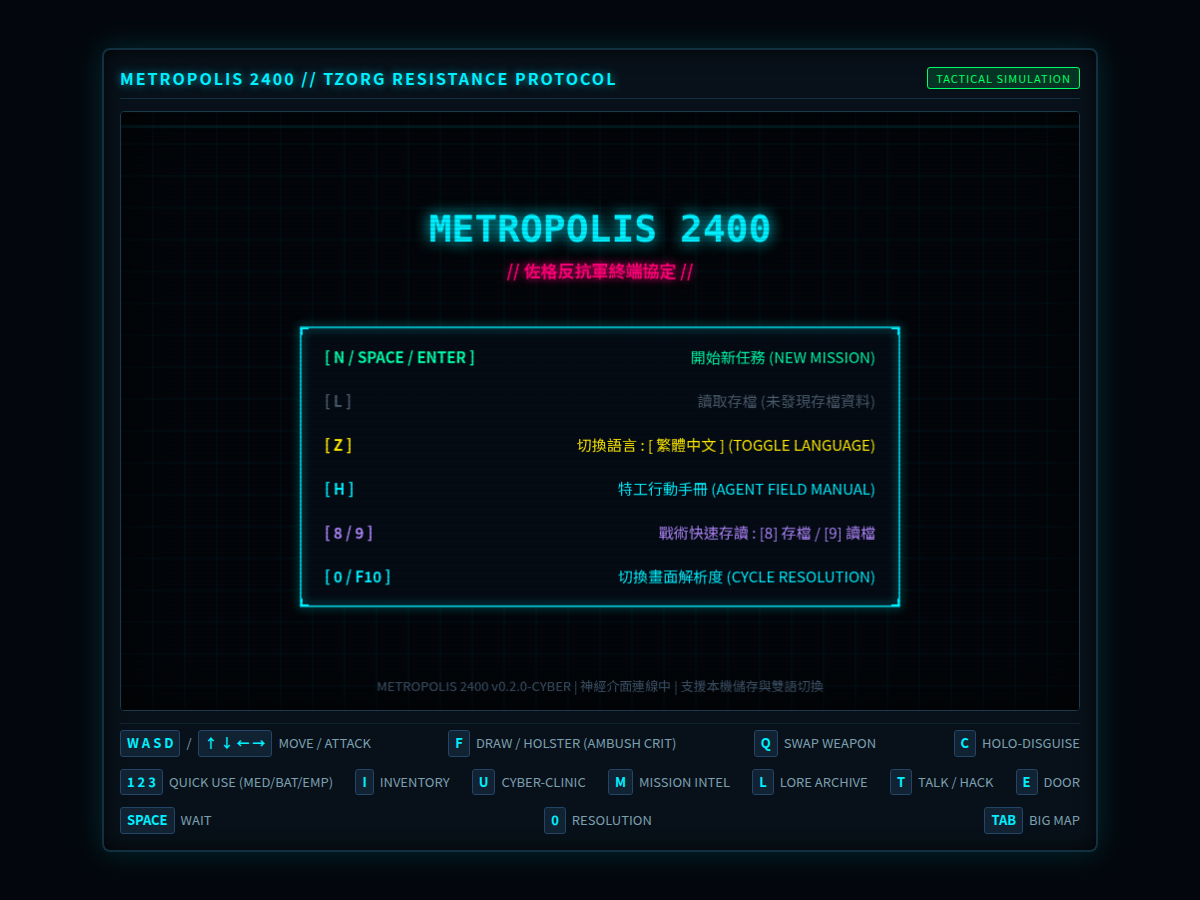
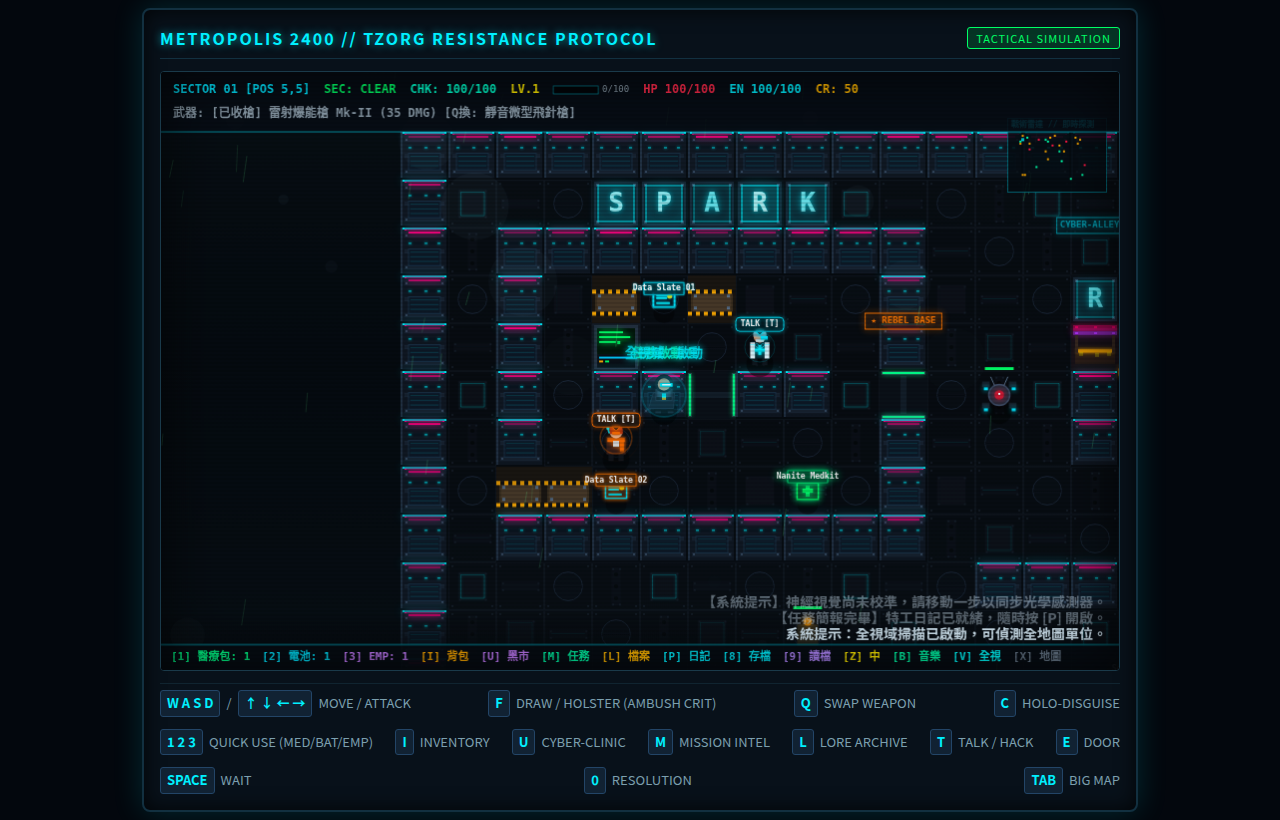
docs: update README with 5-phase main story, AI mental map, and refresh game screenshots

Changed region(s): [[0.0925, 0.0305, 0.925, 1.0]]

diff --git a/src/main.ts b/src/main.ts
@@ -104,6 +104,11 @@ export function initGame(): GameEngineInstance {
     engine.handleKeyDown('Enter');
   }
 
+  const dismissParam = urlParams.get('dismiss');
+  if (dismissParam === '1' || dismissParam === 'true') {
+    engine.handleKeyDown('Escape');
+  }
+
   if (sectorParam) {
     engine.handleKeyDown('Enter');
     engine.switchSector(sectorParam);

diff --git a/README.md b/README.md
@@ -192,6 +192,48 @@ Your objective:
 - **二階段過載 (Phase 2 Overload)**: Boss 戰引入動態過載階段，當 Boss 血量低於特定閾值時，會觸發狂暴狀態並改變攻擊模式，提升戰術深度。
 - **正規力場解鎖機制**: 修復了 Checkpoint 01 力場解鎖邏輯，確保玩家必須透過終端機 `CHECKPOINT_FF` 執行 `OVERRIDE` 或 `HACK` 指令，並完成必要的劇情前置條件後，力場才會正式消散，避免跳過關鍵戰術環節。
 
+### 17. 🗺 主線戰役五大階段任務鏈 (5-Phase Main Storyline Expansion)
+Metropolis 2400 現已具備貫穿地下舊城至核心要塞的完整 5 階段主線戰役任務鏈：
+- **Phase 1 (WO-MS-01) 檢查哨中繼站附樓 (Checkpoint Relay Annex)**：
+  - 突破 Sector 1 檢查哨前置防線，進入中繼站附樓 (`CHECKPOINT_RELAY_ANNEX`)。
+  - 入侵 `RELAY_SUB_01` 輔助終端機，獲取解除代碼並解鎖核心中繼記錄。若密碼錯誤將觸發動態警報擴散！
+- **Phase 2 (WO-MS-02) 舊城地下廢棄水道與走私網絡 (Sub-Sector Zero Sewers)**：
+  - 穿過隱蔽通風柵板進入地下水道 (`sub-sector-0`)，面臨有毒廢水池與暗巷巡邏無人機。
+  - 尋回反抗軍失落的走私貨運清單，並獲得**偽造簽到憑證 (`FORGED_CHECKIN_CREDENTIAL`)**，將神經項圈時效延長至 **125 步**！
+  - 探索東北密室 (32, 5) 取得傳奇密寶【佐格主宰萬用通行證】，徹底永久解除項圈監控 (`CHK: UNLOCKED [∞]`)。
+
+![Sub-Sector Zero Sewers Preview](sewers-preview.png)
+
+- **Phase 3 (WO-MS-03) 維修授權與跨區滲透 (Sector 2 Maintenance Clearance)**：
+  - 取得維修授權鑰匙卡 (`SECTOR2_MAINT_KEY`)，解鎖前往 Sector 2 巨型重工業區的維修通道。
+  - 協助 Commander Kira 與 Netrunner Ghost 建立跨區安全加密通信頻道。
+- **Phase 4 (WO-MS-04) 自動化軍工廠同步器破壞 (Factory Synchronizer Sabotage)**：
+  - 潛入 Sector 2 的自動化戰鬥機器人組裝工廠，黑入主同步控制終端 (`TERMINAL_SYNCHRONIZER`)。
+  - 破壞核心同步器模組 (`FACTORY_SYNCHRONIZER`)，癱瘓自動組裝流水線，永久切斷要塞 (Citadel) 的無人機空投蜂擁增援！
+- **Phase 5 (WO-MS-05) 佐格要塞逆轉金鑰與終局解放 (Citadel Reversal Keys & Multiverse Endings)**：
+  - 收集三大分區逆轉金鑰 (`CITADEL_REVERSAL_KEY` - Relay, Maintenance, Synchronizer)。
+  - 要塞核心終端機提供專屬 `KEYS` 診斷命令，動態引導缺失金鑰的分區與終端機座標。
+  - 完整集齊逆轉金鑰後，迎戰 Overmind Subroutine 主腦，自由決定大都會的命運：
+    - `OVERLOAD`：超載核心能源網，玉石俱焚摧毀要塞。
+    - `SUBVERSION`：篡改主腦神經網絡，將佐格機械軍團轉化為反抗軍防衛隊。
+    - `EVACUATION`：解除全體五百萬市民的神經項圈，啟動地下方舟疏散。
+    - `AWAKEN`：合成人與人類意識交融，迎向全新的後奇異點黎明。
+
+### 18. 🧠 LLM 智慧體心智地圖與即時感知系統 (Autonomous AI Agent Perception & Mental Map)
+為支援自主編程與 LLM 遊戲智慧體（如 Qwen 27B / Claude / GPT），Metropolis 2400 深度整合了專為 Agent 打造的高效感知與決策層：
+- **特工心智地圖 API (`getMentalMap`)**：
+  - **ASCII 戰術雷達投影**：將目前視野與記憶地圖渲染為輕量級 ASCII 字符矩陣（包含特工 `@`、障礙 `#`、平地 `.`、門 `+`、NPC `N`、敵機 `R`、終端 `T` 與未知迷霧 ` `）。
+  - **前沿探索點推薦 (`?`)**：演算法自動計算已知區域邊界的探索前沿 (Frontiers)，為 Agent 提供高效探索建議。
+  - **四向 A* 戰術尋路 (`suggestedNextStep`)**：內建非對角 A* 尋路器，支援輸入目標座標立即回傳最佳下一步方向與距離，大幅降低 LLM 空間導航推理消耗。
+- **即時感知快照 API (`getAIPerceptionSnapshot`)**：
+  - 輸出完整的 JSON 語意環境狀態：特工生理狀態 (HP, EN, CR, 項圈倒數)、當前分區、視野內威脅清單與距離、相鄰可互動實體（NPC、終端機、暗門等）。
+  - **語意動作遮罩 (Action Masking)**：明確提供目前合法的戰術動作標籤 (`canAttack`, `canTalk`, `canHack`, `canDisarm`, `canWait` 等)，避免 Agent 產生非法動作試錯。
+
+### 19. 📓 特工主觀戰術日記系統 (Operative Journal System, `[P]`)
+- **特工第一人稱情報日誌**：隨時按下 `[P]` 鍵開啟戰術日記。
+- **主觀觀察記錄**：不同於客觀任務清單，日記專門記錄特工在探索中的主觀推測、暗門位置、地標方向、密碼線索與撤退備忘。
+- **瀏覽與撰寫雙模式**：支援標題快速滾動檢視與詳細內容編輯，所有條目與世界存檔同步持久化。
+
 ---
 
 ## 🎮 Controls & Keybindings (操作指南)
@@ -208,6 +250,7 @@ Your objective:
 | **`I`** | **Inventory** | Open Resistance Cyberdeck & Tactical Inventory modal |
 | **`U`** | **Cyber-Clinic** | Jack into Jax's Black Market Augmentation Clinic to buy upgrades |
 | **`M`** | **Mission Intel** | Toggle Mission Objectives & Directives log |
+| **`P`** | **Operative Journal** | Open/compose subjective field notes & tactical memory logs |
 | **`L`** | **Lore Archives** | Open Decrypted Data Slates & Story Archive reader |
 | **`T`** | **Interact / Hack** | Speak with adjacent friendly NPCs or jack into security terminals |
 | **`E`** | **Cycle Door** | Open / close adjacent blast doors and airlocks |
@@ -295,6 +338,11 @@ metropolis-2400/
 │   ├── npcDialogueManager.ts # NPC conversation progression
 │   ├── radar.ts          # Tactical radar/minimap helpers
 │   ├── worldBuilder.ts   # Sector entities, objectives and world initialization
+│   ├── agentMentalMap.ts # AI Agent ASCII radar & A* mental map planner
+│   ├── aiPerception.ts   # Structured perception snapshot & semantic action masking
+│   ├── journalSystem.ts  # Operative journal storage, schema & memory sync
+│   ├── journalModal.ts   # Journal modal CRT UI compositor
+│   ├── mainStoryQuest.ts # Main story 5-phase quest progression & clue delivery
 │   └── style.css         # Retro CRT scanline shaders & glowing cyber-interface styles
 ├── scripts/              # Automated verification test suite (41 scripts)
 │   ├── verify-game.ts    # Engine loop & turn validation
@@ -309,10 +357,11 @@ metropolis-2400/
 │   └── ...               # 32 additional verification scripts
 ├── live-gh-pages-preview.png # GitHub Pages live preview screenshot
 ├── npc-actions-preview.png   # NPC dynamic actions & VFX screenshot
+├── sewers-preview.png        # Sub-Sector Zero sewers & stealth exploration screenshot
 └── preview.png           # Live gameplay screenshot
 ```
 
-> 💡 **自動化測試覆蓋**：`scripts` 目前包含 41 套驗證腳本。執行 `npm test` 會同步執行 TypeScript 嚴格靜態型別檢驗與 37 套核心整合測試，涵蓋引擎回合推進、AI 尋路、戰鬥音訊、地圖扇區、存檔水合、Boss 多階段戰與支線任務。
+> 💡 **自動化測試覆蓋**：`scripts` 目前包含 54 套完整自動化驗證腳本。執行 `npm test` 會同步執行 TypeScript 嚴格靜態型別檢驗與 54 套端到端整合測試，涵蓋引擎回合推進、AI 尋路與心智地圖、感知快照、主線五大戰役任務鏈 (WO-MS-01 ~ WO-MS-05)、逆轉金鑰與終局分支。
 
 ### 🏛 架構演進與高可維護性設計 (Architecture & Maintainability)
 
